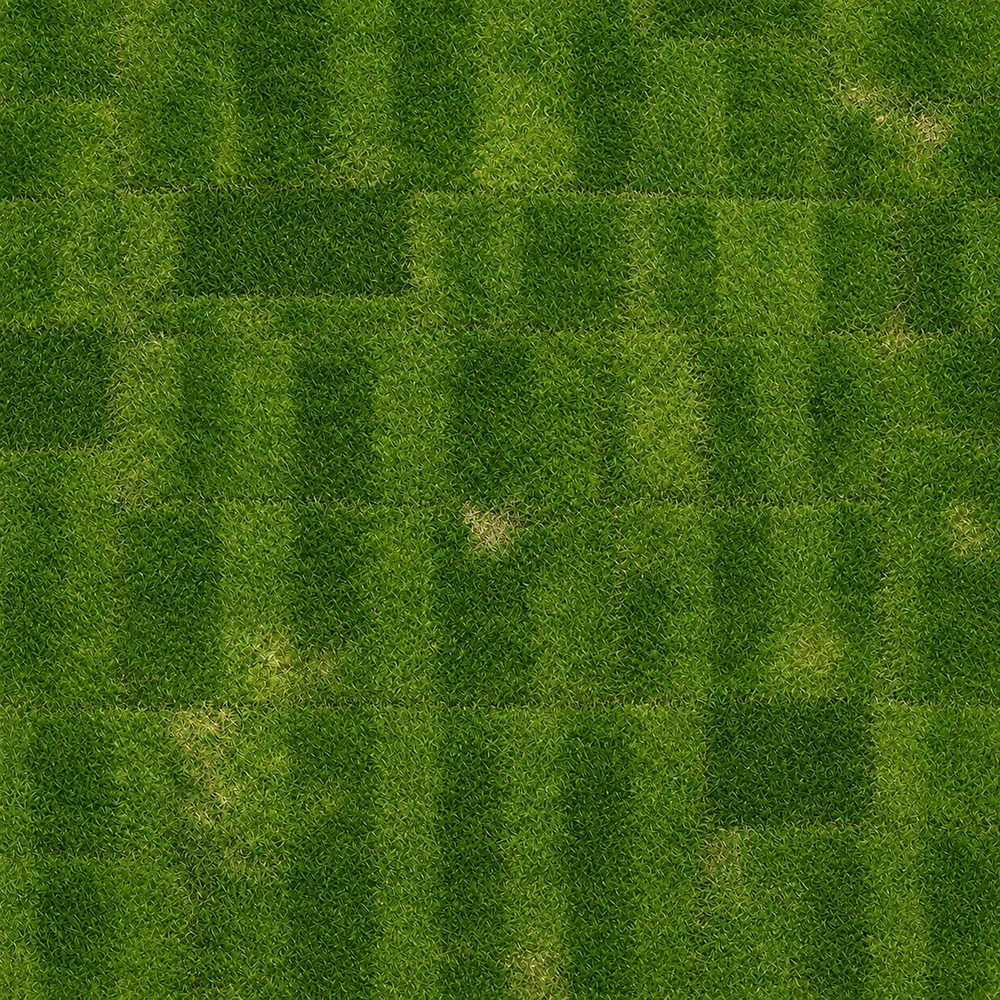
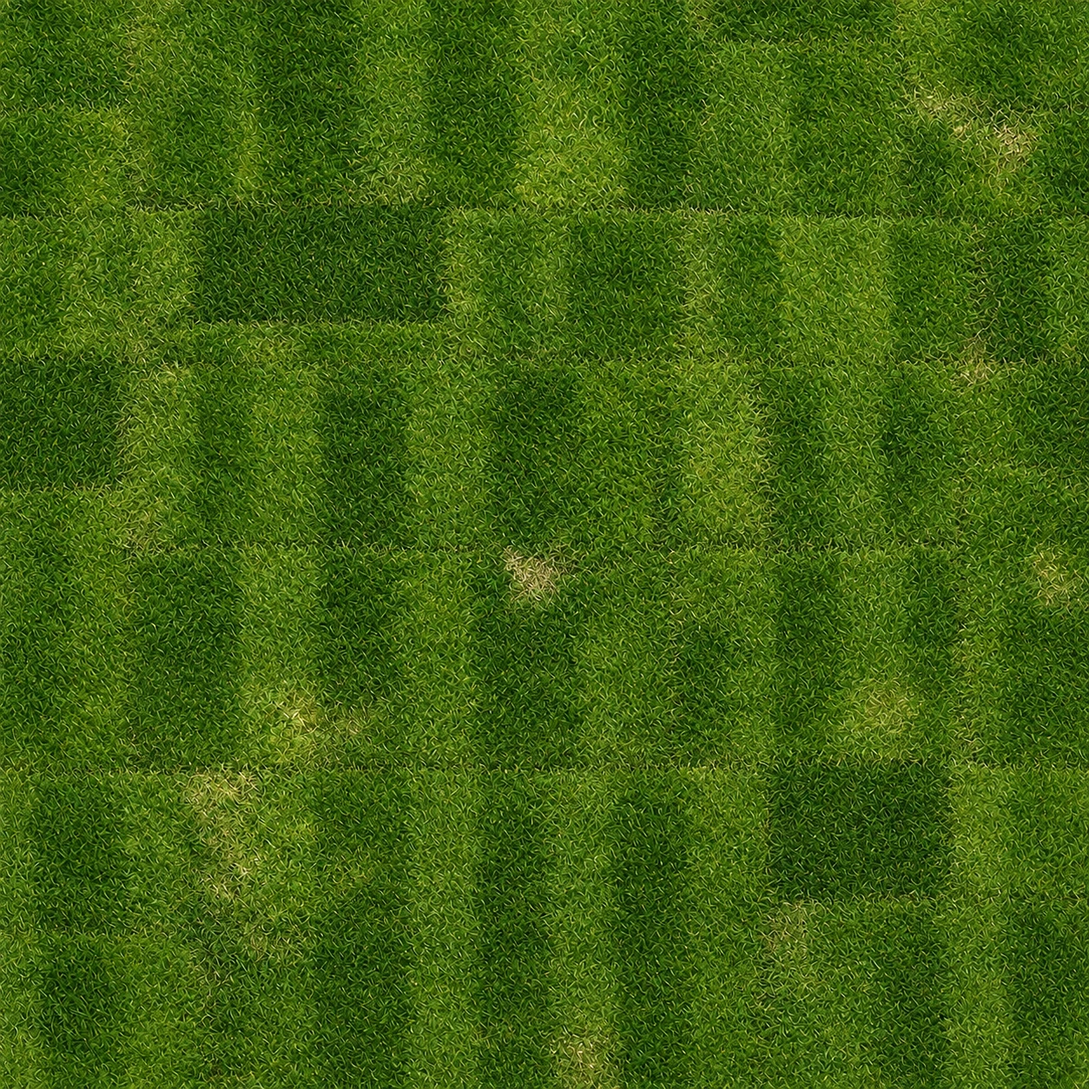
Photo grasses at full resolution; painted areas pick the mip from zoom x paint scale (no blur when scaled up)

diff --git a/src/game/textures.ts b/src/game/textures.ts
@@ -265,7 +265,8 @@ export class Textures {
       const c = toCanvas(await loadImage(p.src));
       // mixed: the ground under the patches' feathered edges is the photo's own mean colour, not the asphalt's
       const mean = () => { const d = ctx2d(c).getImageData(0, 0, c.width, c.height).data, s = [0, 0, 0]; for (let i = 0; i < d.length; i += 4) { s[0] += d[i]; s[1] += d[i + 1]; s[2] += d[i + 2]; } return `rgb(${s.map(v => Math.round(v / (d.length / 4))).join(',')})`; };
-      this.mosaics.set(p.tex, this.mipChain(p.mix ? this.mosaic(seeds, c, c, mean()) : c)); await tick();
+      // mixed: 160 px per tile (80 px/m) over the 24 m period, the photo's p.mix metres scaled to that; plain: the photo is the period
+      this.mosaics.set(p.tex, this.mipChain(p.mix > 0 ? this.mosaic(seeds, c, c, mean(), 160, c.width / p.mix) : c)); await tick();
     }
     { const c = canvas(BASE_W, BASE_H), g = ctx2d(c); g.drawImage(grass, 0, 0); g.globalCompositeOperation = 'multiply'; g.fillStyle = '#b9a98a'; g.fillRect(0, 0, BASE_W, BASE_H); this.store('meadow', c); }
     { const c = canvas(BASE_W, BASE_H), g = ctx2d(c); g.drawImage(grass, 0, 0); g.globalCompositeOperation = 'multiply'; g.fillStyle = '#8c8c86'; g.fillRect(0, 0, BASE_W, BASE_H); this.store('outside', c); }
@@ -300,11 +301,11 @@ export class Textures {
     return out;
   }
   /** soft-edged, overlapping patches of the painting stamped in a staggered hex grid so neighbouring patches blend into each other rather than meeting at hard seams. All patches share the builder's flattened mean tone so overlaps never drift in brightness. */
-  private mosaic(seeds: ReturnType<Textures['mosaicSeeds']>, a: Cnv, b: Cnv, fill?: string) {
-    const S = MOSAIC_TILES * MOSAIC_PX, c = canvas(S, S), g = ctx2d(c);
+  private mosaic(seeds: ReturnType<Textures['mosaicSeeds']>, a: Cnv, b: Cnv, fill?: string, px = MOSAIC_PX, srcPPM = PPM) {
+    const S = MOSAIC_TILES * px, c = canvas(S, S), g = ctx2d(c);
     // one patch covers ~1.6 tiles so neighbours overlap; feather spans most of the overlap band
-    const R = 0.82 * MOSAIC_PX, feather = 0.5 * MOSAIC_PX, P = Math.ceil(R * 2) + 2;
-    const patch = canvas(P, P), pg = ctx2d(patch), scale = MOSAIC_PX / 2 / PPM;
+    const R = 0.82 * px, feather = 0.5 * px, P = Math.ceil(R * 2) + 2;
+    const patch = canvas(P, P), pg = ctx2d(patch), scale = px / 2 / srcPPM;
     const soft = canvas(P, P); { const sg = ctx2d(soft), gr = sg.createRadialGradient(P / 2, P / 2, 0, P / 2, P / 2, R); gr.addColorStop(0, 'rgba(0,0,0,1)'); gr.addColorStop(0.35, 'rgba(0,0,0,1)'); gr.addColorStop(0.35 + feather / R, 'rgba(0,0,0,0)'); sg.fillStyle = gr; sg.fillRect(0, 0, P, P); }
     g.fillStyle = fill ?? `rgb(${ASPHALT_MEAN.map(Math.round).join(',')})`; g.fillRect(0, 0, S, S);
     for (const s of seeds) {
@@ -313,7 +314,7 @@ export class Textures {
       pg.globalCompositeOperation = 'source-over'; pg.clearRect(0, 0, P, P);
       pg.drawImage(img, P / 2 - ox, P / 2 - oy, W, H);
       pg.globalCompositeOperation = 'destination-in'; pg.drawImage(soft, 0, 0);
-      const X = s.x * MOSAIC_PX - P / 2, Y = s.y * MOSAIC_PX - P / 2;
+      const X = s.x * px - P / 2, Y = s.y * px - P / 2;
       for (const wx of [-S, 0, S]) for (const wy of [-S, 0, S]) { const x = X + wx, y = Y + wy; if (x > -P && x < S && y > -P && y < S) g.drawImage(patch, x, y); }
     }
     // a whisper of extra grain over the whole period so adjacent patches feel like one painted surface

diff --git a/src/game/grass-art.ts b/src/game/grass-art.ts
@@ -24,11 +24,11 @@ export const GRASS_PAINT: { tex: GrassTex; src: string }[] = [
 ];
 
 /** the photo grass textures, laid in tile space like the asphalt mosaic so the mowing stripes follow the paint area's angle and scale;
- *  src is the seamless photo at its mosaic size (a 12-tile period, or 6 m for rough), mix = hex-mixed so it never visibly repeats */
-export const GRASS_PHOTO: { tex: GrassTex; src: string; mix: boolean }[] = [
-  { tex: 'golfFairway', src: golfFairway, mix: false },
-  { tex: 'golfSod', src: golfSod, mix: false },
-  { tex: 'golfRough', src: golfRough, mix: true },
+ *  src is the seamless photo at its native size (1254 px); mix = the metres the photo covers when hex-mixed so it never visibly repeats (0 = a plain tile over the 12-tile period) */
+export const GRASS_PHOTO: { tex: GrassTex; src: string; mix: number }[] = [
+  { tex: 'golfFairway', src: golfFairway, mix: 0 },
+  { tex: 'golfSod', src: golfSod, mix: 0 },
+  { tex: 'golfRough', src: golfRough, mix: 6 },
 ];
 /** true for a grass texture laid as a tile-space photo (renderer.ts drawPaints), not a screen-space painting */
 export const isPhotoGrass = (t: string) => GRASS_PHOTO.some(p => p.tex === t);

diff --git a/src/game/renderer.ts b/src/game/renderer.ts
@@ -472,12 +472,12 @@ export class GroundPainter {
           return;
         }
         if (t === 'asphalt' || t === 'asphaltDark' || t === 'asphaltWorn') {
-          put(this.groundPattern(ctx, this.tex.mosaicFor('base', L), G));
+          put(this.groundPattern(ctx, this.tex.mosaicFor('base', L * st.s), G));
           if (t === 'asphaltDark') tone('rgb(10,12,24)', 'multiply', 0.28);
           if (t === 'asphaltWorn') { tone('rgb(150,150,150)', 'multiply', 0.5); tone('rgb(190,180,160)', 'screen', 0.22); }
           return;
         }
-        if (isPhotoGrass(t)) { put(this.groundPattern(ctx, this.tex.mosaicFor(t, L), G)); return; }
+        if (isPhotoGrass(t)) { put(this.groundPattern(ctx, this.tex.mosaicFor(t, L * st.s), G)); return; }
         put(this.screenPattern(ctx, t as TexName, L, X0, Y0, Minv, G));
       };
       ctx.save(); ctx.setTransform(M); ctx.clip(path); ctx.lineJoin = 'round';

diff --git a/src/game/paint.ts b/src/game/paint.ts
@@ -36,7 +36,7 @@ export const PAINT_TEXES: { id: PaintTex; name: string; col: string }[] = [
   { id: 'golfGreen', name: 'Putting green', col: '#4d6e18' },
   { id: 'golfFairway', name: 'Fairway', col: '#416114' },
   { id: 'golfSod', name: 'New sod', col: '#435d19' },
-  { id: 'golfRough', name: 'Rough', col: '#52571d' },
+  { id: 'golfRough', name: 'Rough', col: '#52571f' },
   { id: 'meadowLush', name: 'Meadow', col: '#686d20' },
   { id: 'meadowFlowers', name: 'Wildflowers', col: '#6a6c2f' },
 ];

diff --git a/src/game/texture-share.ts b/src/game/texture-share.ts
@@ -3,7 +3,7 @@
 import { canvas, ctx2d, type CurbColours, type Cnv, type Textures } from './textures';
 
 /** bump when the texture generation code changes, so stale caches are rebuilt */
-const TEX_VERSION = 'tex-13';
+const TEX_VERSION = 'tex-14';
 export interface TexSnapshot { names: string[]; bitmaps: ImageBitmap[]; curb: CurbColours; stampAngle: number }
 
 function entries(t: Textures): [string, Cnv][] {
